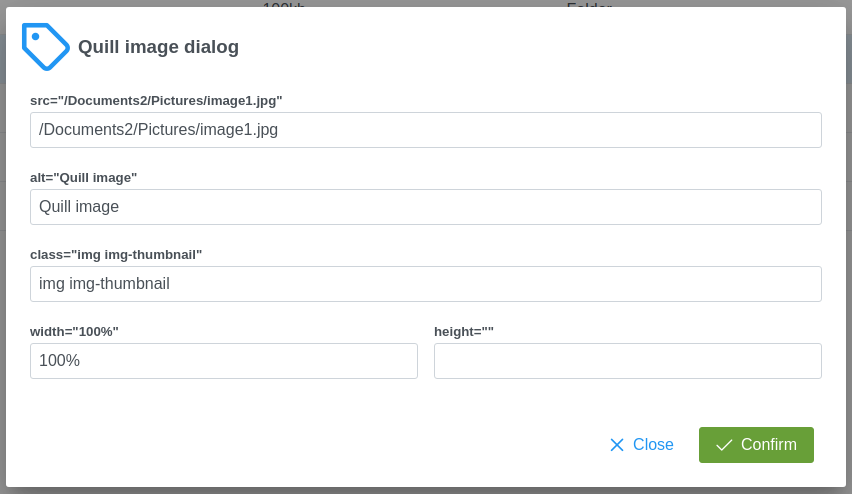
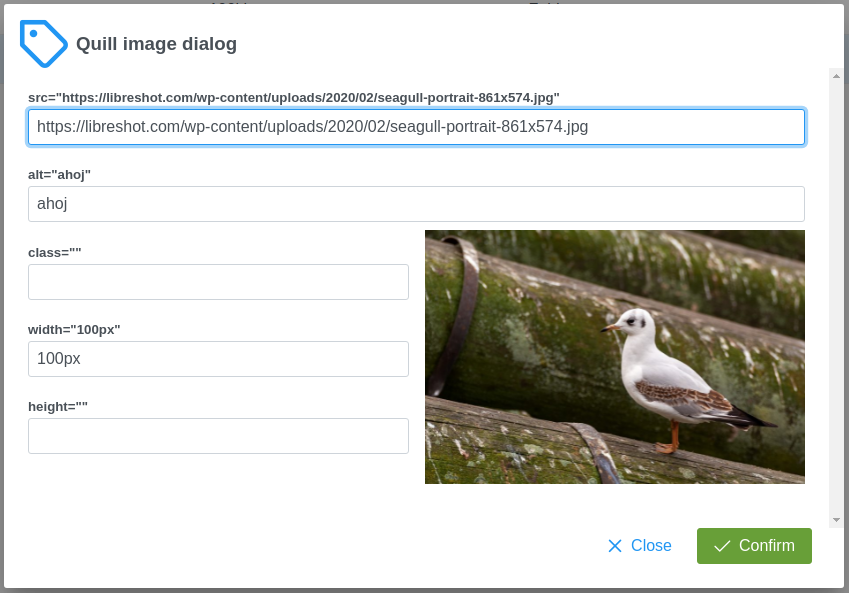
v0.9.2.2

diff --git a/src/integration/quill/QuillImageDialog.vue b/src/integration/quill/QuillImageDialog.vue
@@ -23,17 +23,19 @@
     <h5 class="mb-1">alt="{{ data.alt }}"</h5>
     <InputText type="text" v-model="data.alt" />
 
-    <h5 class="mb-1">class="{{ data.class }}"</h5>
-    <InputText type="text" v-model="data.class" />
+    <div class="grid">
+      <div class="col">
+        <h5 class="mb-1">class="{{ data.class }}"</h5>
+        <InputText type="text" v-model="data.class" />
 
-    <div class="formgrid grid">
-      <div class="field col">
         <h5 class="mb-1">width="{{ data.width }}"</h5>
         <InputText type="text" v-model="data.width" />
-      </div>
-      <div class="field col">
+
         <h5 class="mb-1">height="{{ data.height }}"</h5>
         <InputText type="text" v-model="data.height" />
+      </div>
+      <div class="col mt-2">
+        <Image :src="data.src" :alt="data.alt" imageClass="w-full" />
       </div>
     </div>
 
@@ -62,10 +64,11 @@ import { defineAsyncComponent } from "vue";
 import Button from "primevue/button";
 import Dialog from "primevue/dialog";
 import InputText from "primevue/inputtext";
+import Image from "primevue/image";
 
 export default {
   name: "RemoveDialog",
-  components: { Button, Dialog, InputText },
+  components: { Button, Dialog, InputText, Image },
   emits: ["onConfirm", "onClose"],
   props: ["url", "isVisible"],
   data() {
